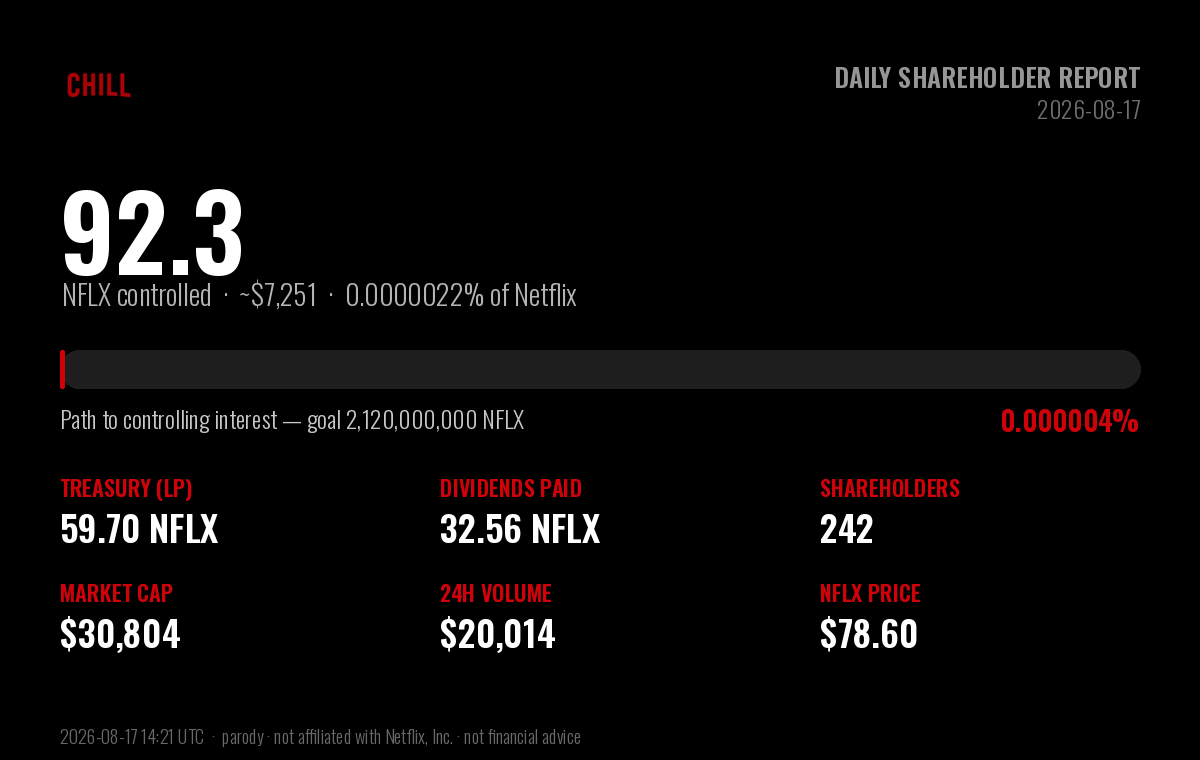
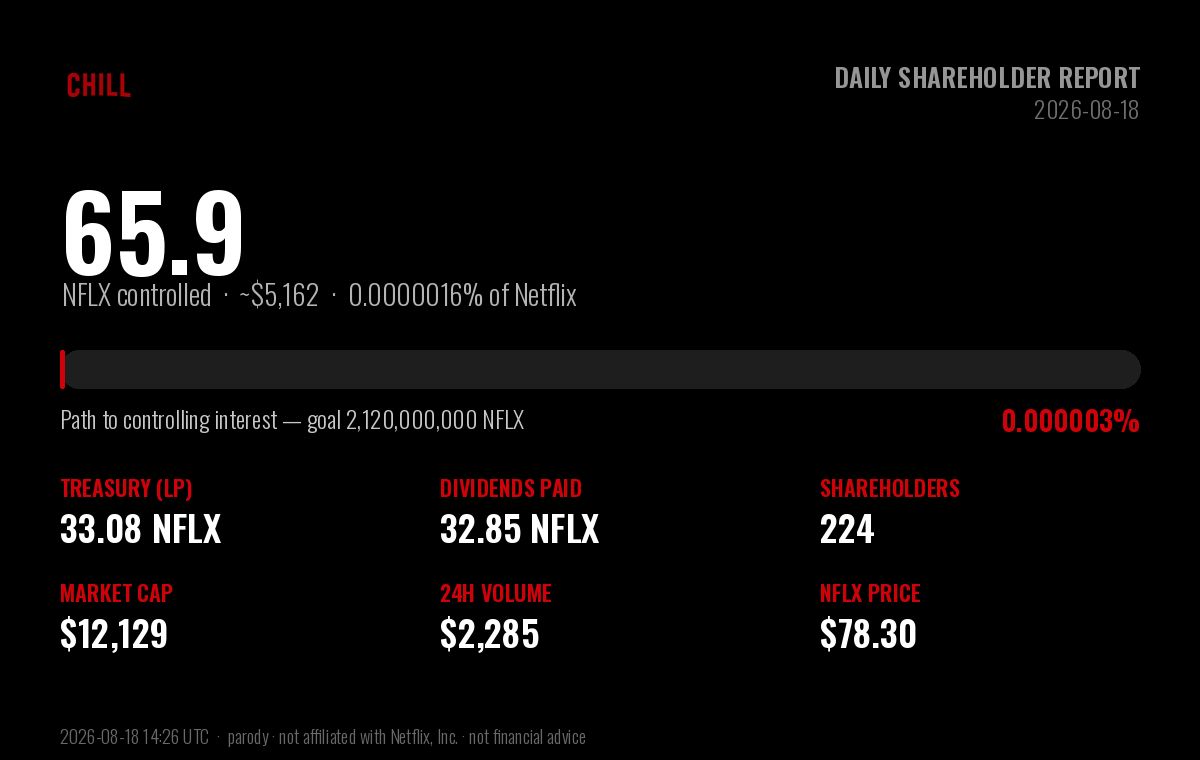
chore: daily $CHILL shareholder report (2026-08-18)

diff --git a/daily-holder-report/README.md b/daily-holder-report/README.md
@@ -1,6 +1,6 @@
 # $CHILL — Daily Shareholder Report
 
-### Netflix and Chill · Report to Shareholders · 2026-08-17
+### Netflix and Chill · Report to Shareholders · 2026-08-18
 
 > **Corporate objective:** acquire a controlling interest in Netflix (NFLX).
 > Netflix has **4,220,000,000** shares outstanding; a majority
@@ -13,53 +13,53 @@
 
 | Metric | Value |
 |---|---|
-| **NFLX under $CHILL control** | **92.25 NFLX** (~$7,251) |
-| Stake in Netflix | 0.000002186% of shares outstanding |
-| Progress to controlling interest | 0.0000044% of 2,120,000,000 |
-| Shares remaining to majority | 2,119,999,908 NFLX |
+| **NFLX under $CHILL control** | **65.93 NFLX** (~$5,162) |
+| Stake in Netflix | 0.000001562% of shares outstanding |
+| Progress to controlling interest | 0.0000031% of 2,120,000,000 |
+| Shares remaining to majority | 2,119,999,934 NFLX |
 
 ## Balance sheet — NFLX holdings
 
 | Holding | NFLX | USD |
 |---|---|---|
-| Treasury (protocol-owned liquidity) | 59.70 | $4,692 |
-| Dividends distributed to shareholders | 32.56 | $2,559 |
-| **Total NFLX controlled** | **92.25** | **$7,251** |
+| Treasury (protocol-owned liquidity) | 33.08 | $2,590 |
+| Dividends distributed to shareholders | 32.85 | $2,572 |
+| **Total NFLX controlled** | **65.93** | **$5,162** |
 
 ## Last 24 hours
 
 | Metric | Value |
 |---|---|
-| Trading volume | 254.64 NFLX (~$20,014) |
-| Net NFLX accumulated | 22.93 NFLX |
-| Dividends generated | 2.5464 NFLX |
-| Transactions | 224 (146 buys / 78 sells) |
-| $CHILL price change | +8.8% |
+| Trading volume | 29.18 NFLX (~$2,285) |
+| Net NFLX accumulated | -26.62 NFLX |
+| Dividends generated | 0.2918 NFLX |
+| Transactions | 42 (5 buys / 37 sells) |
+| $CHILL price change | -39.7% |
 
 ## Shareholder & market data
 
 | Metric | Value |
 |---|---|
-| Shareholders of record | 242 |
-| Lifetime unique participants | 914 |
+| Shareholders of record | 224 |
+| Lifetime unique participants | 918 |
 | Shares outstanding ($CHILL) | 1,000,000,000 |
-| Market capitalization | $30,804 |
-| $CHILL price | $0.00003080 |
-| NFLX price | $78.60 |
-| Lifetime volume | 3,255.64 NFLX (~$255,880) |
-| Lifetime transactions | 4,404 (2,530 buys / 1,874 sells) |
-| Days since IPO (launch) | 28 |
+| Market capitalization | $12,129 |
+| $CHILL price | $0.00001213 |
+| NFLX price | $78.30 |
+| Lifetime volume | 3,284.82 NFLX (~$257,216) |
+| Lifetime transactions | 4,446 (2,535 buys / 1,911 sells) |
+| Days since IPO (launch) | 29 |
 
 ## Per-share metrics
 
 | Metric | Value |
 |---|---|
-| NFLX backing per 1M $CHILL | 0.092253 NFLX |
-| Dividends per 1M $CHILL | 0.032556 NFLX |
+| NFLX backing per 1M $CHILL | 0.065925 NFLX |
+| Dividends per 1M $CHILL | 0.032848 NFLX |
 
 ---
 
-*Report generated 2026-08-17 14:21 UTC · block 38,904,197 · data via the Sentry-Robinhood
+*Report generated 2026-08-18 14:26 UTC · block 39,768,970 · data via the Sentry-Robinhood
 subgraph and Robinhood Chain explorer.*
 
 **Disclaimer:** $CHILL is an independent, community-driven **parody** token. It is
